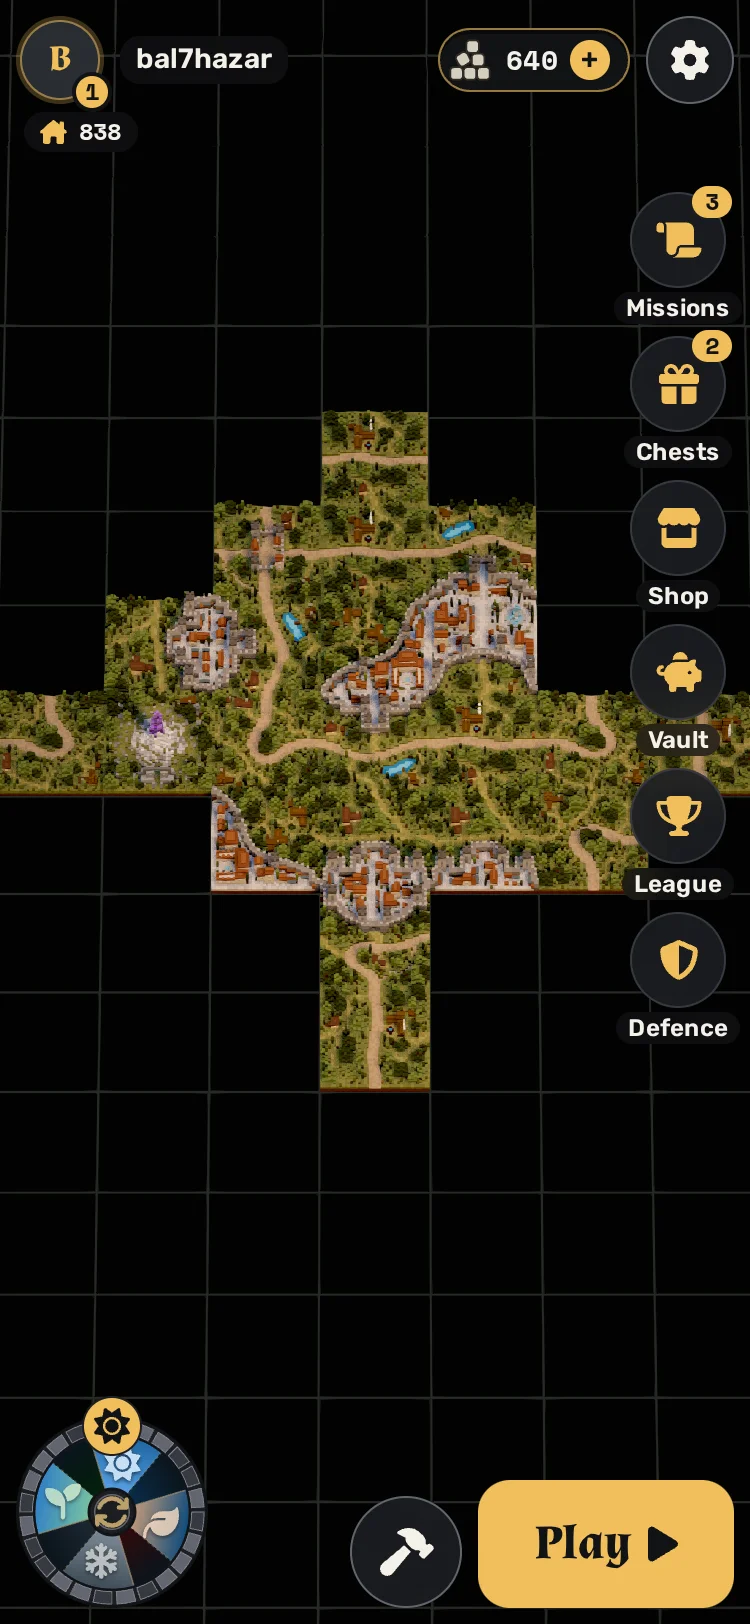
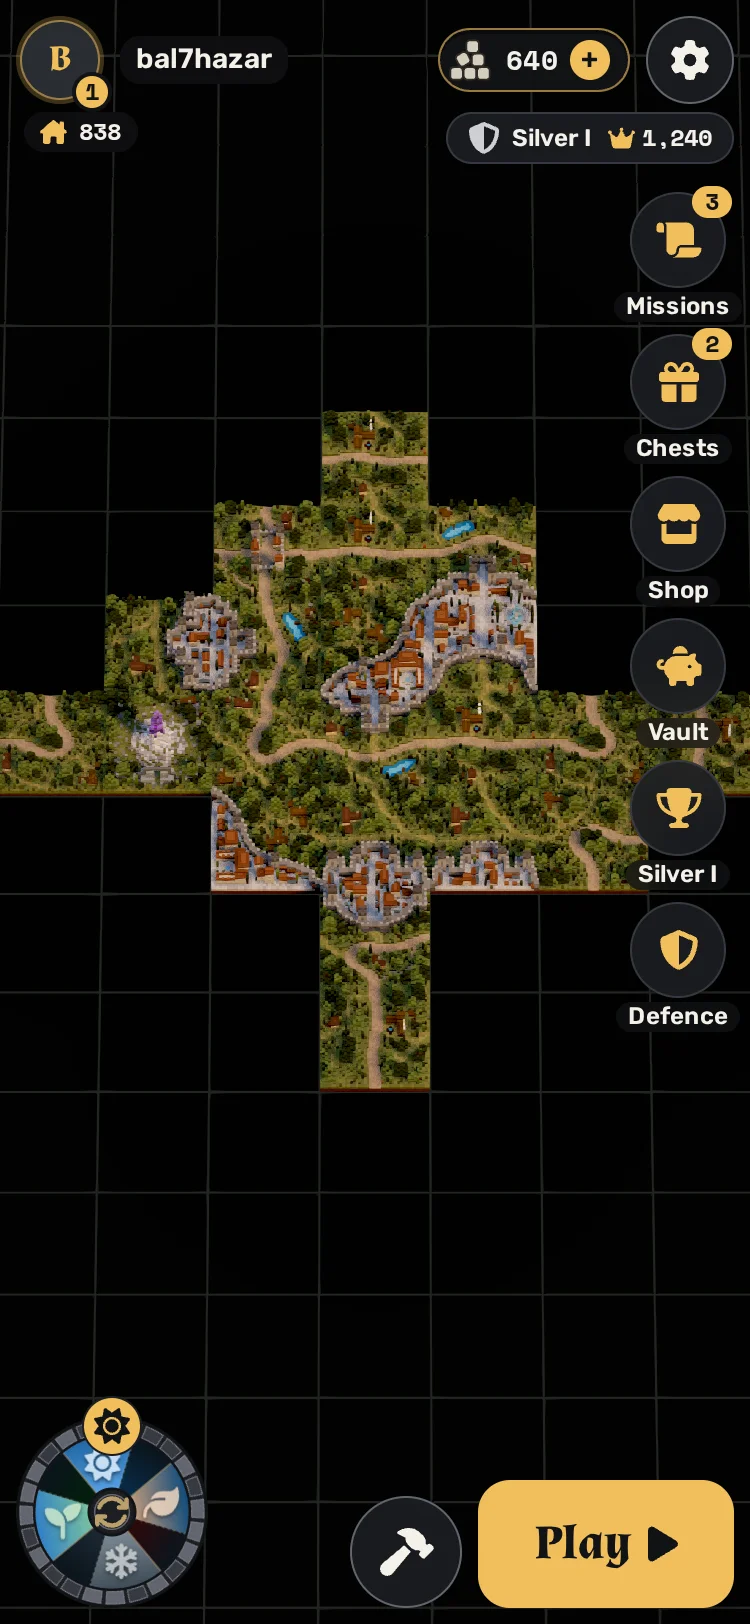
V2-HOME-VILLAGE: village as home page with overlays (#753)
Task: PVD-144 (paved/144)

diff --git a/packages/app/src/components/scenes/home-village-scene.tsx b/packages/app/src/components/scenes/home-village-scene.tsx
@@ -3,7 +3,10 @@ import type { BoardTile, GameView } from "@paved/chain";
 import { formatInteger } from "@paved/game-core";
 import type { BoardWheel } from "../../data/board-settings";
 import { cn } from "../../lib/utils";
+import { leagueOf } from "../../lib/pvp-rules";
 import { Countdown } from "../elements/countdown";
+import { Crowns } from "../elements/crowns";
+import { LeagueCrest } from "../elements/league-crest";
 import { InlineError, type ErrorDetail } from "../elements/inline-error";
 import { formatPoints } from "../elements/score";
 import { type TileArt } from "../elements/tile-chip";
@@ -57,6 +60,8 @@ export interface HomeVillageSceneProps {
   missions?: number;
   /** The viewer's Challenge game still running: the Resume chip. */
   activeGame?: GameView | null;
+  /** The player's PvP standing (`Matchmaker.league`), once PvP is played: the crowns and their league at the top right. */
+  league?: { crowns: number } | null;
   /** `Challenge.spawn_paused`: the notice. */
   spawnPaused?: boolean;
   now: number;
@@ -163,6 +168,7 @@ const SKY = <div aria-hidden className="min-h-0 flex-1 bg-gradient-to-b from-bac
 /** The view's overlays: the corners, the right column, Play and Edit, the chips. */
 function ViewOverlays({ village, editable, onEdit, ...props }: HomeVillageSceneProps & { editable: boolean; onEdit: () => void }) {
   const { activeGame, now, guest, founded = true } = props;
+  const standing = props.league ? leagueOf(props.league.crowns) : null;
   return (
     <>
       {/* Top: the avatar and its name at the left, the balances and the gear at the right; the chips below. */}
@@ -178,12 +184,26 @@ function ViewOverlays({ village, editable, onEdit, ...props }: HomeVillageSceneP
               </span>
             )}
           </div>
-          <div className="pointer-events-auto flex shrink-0 items-center gap-2">
-            <BalancesSlot layout="pill" className="desktop:hidden" />
-            <BalancesSlot layout="rail" className="hidden desktop:flex" />
-            <Button size="icon" variant="outline" onClick={props.onSettings} aria-label="Settings" className="rounded-full bg-card/90 backdrop-blur">
-              <Icon name="gear" size="md" />
-            </Button>
+          <div className="flex shrink-0 flex-col items-end gap-1">
+            <div className="pointer-events-auto flex items-center gap-2">
+              <BalancesSlot layout="pill" className="desktop:hidden" />
+              <BalancesSlot layout="rail" className="hidden desktop:flex" />
+              <Button size="icon" variant="outline" onClick={props.onSettings} aria-label="Settings" className="rounded-full bg-card/90 backdrop-blur">
+                <Icon name="gear" size="md" />
+              </Button>
+            </div>
+            {/* Once PvP is played: the crowns and the league, a tap to the league. */}
+            {standing && (
+              <button
+                type="button"
+                onClick={props.onLeague}
+                aria-label={`League: ${standing.name}, ${formatInteger(props.league!.crowns)} ${props.league!.crowns === 1 ? "crown" : "crowns"}`}
+                className="state-layer pointer-events-auto flex items-center gap-2 rounded-full border border-border bg-card/90 px-2.5 py-1 backdrop-blur outline-none focus-visible:ring-2 focus-visible:ring-ring"
+              >
+                <LeagueCrest league={standing} size="sm" />
+                <Crowns value={props.league!.crowns} size="sm" />
+              </button>
+            )}
           </div>
         </div>
         {/* The chips under the avatar, clear of the right column. */}
@@ -224,7 +244,7 @@ function ViewOverlays({ village, editable, onEdit, ...props }: HomeVillageSceneP
         <OverlayButton icon="gift" label="Chests" badge={props.chests} onClick={props.onChests} />
         <OverlayButton icon="store" label="Shop" onClick={props.onShop} />
         <OverlayButton icon="piggy-bank" label="Vault" onClick={props.onVault} />
-        <OverlayButton icon="trophy" label="League" onClick={props.onLeague} />
+        <OverlayButton icon="trophy" label="League" detail={standing?.name} onClick={props.onLeague} />
         <OverlayButton icon="shield-halved" label="Defence" onClick={props.onDefence} />
       </nav>
 

diff --git a/packages/app/__tests__/home-route.test.tsx b/packages/app/__tests__/home-route.test.tsx
@@ -1,0 +1,89 @@
+import { slow } from "../test-slow";
+import { render, screen, waitFor } from "@testing-library/react";
+import { afterEach, beforeAll, beforeEach, describe, expect, it, vi } from "vitest";
+import { App } from "../src/App";
+import type { GameSigner } from "../src/data";
+import { MOCK_KEY } from "../src/data/mock/ledger";
+import { SETTINGS_KEY } from "../src/data/settings";
+import { leagueOf } from "../src/lib/pvp-rules";
+import { queryClient } from "../src/lib/query-client";
+import { createTestRouter } from "../src/routes/router";
+import { markWelcomed, resetWelcomedForTests } from "../src/routes/welcomed";
+import { mockImplementation } from "./mock-fakes";
+import { fakeWallet } from "./wallet-fakes";
+
+// The home (#753) on the mock ledger: the crowns and the league once PvP is played, and the scene's view by the graphics
+// quality. jsdom has no WebGL: here it reports some, and the 3D canvas is a stand-in that says it is up.
+
+vi.mock("../src/lib/webgl", () => ({ hasWebGL: () => true }));
+vi.mock("../src/routes/home-canvas", () => ({ default: () => <div data-testid="home-canvas" /> }));
+
+const WAIT = { timeout: slow(8000) };
+
+/** The mock's sources, the wallet restored, the village founded; `crowns` (and a season attack) when PvP was played. */
+async function open(options: { crowns?: number } = {}) {
+  const s = mockImplementation();
+  const me = s.sources.signer!.address;
+  await s.ledger.writesFor(me).foundFreeVillage();
+  if (options.crowns !== undefined) {
+    // The player's stored PvP, edited in place: crowns won this season (a test's stand-in for attacks played elsewhere).
+    await s.ledger.pvpLeague(me);
+    const state = JSON.parse(s.store.getItem(MOCK_KEY)!);
+    const season = (await s.ledger.pvpLeague(me)).season;
+    for (const player of Object.values(state.players as Record<string, { pvp?: Record<string, unknown> }>)) {
+      player.pvp = { crowns: options.crowns, draws: 0, match: null, attacks: [], shieldUntil: 0, season, seasonAttacks: 1, peak: 0 };
+    }
+    s.store.setItem(MOCK_KEY, JSON.stringify(state));
+  }
+  const wallet = fakeWallet({ address: me, restored: true });
+  wallet.connector.signer = () => s.sources.signer as GameSigner;
+  const router = createTestRouter("/");
+  render(<App router={router} sources={s.sources} connector={wallet.load} />);
+  return { ...s, me, router };
+}
+
+beforeAll(async () => {
+  await Promise.all([import("../src/routes/pages/home"), import("../src/routes/home-stage")]);
+}, slow(60_000));
+beforeEach(() => {
+  queryClient.clear();
+  localStorage.clear();
+  resetWelcomedForTests();
+  markWelcomed();
+});
+afterEach(() => {
+  queryClient.clear();
+  localStorage.clear();
+  resetWelcomedForTests();
+});
+
+describe("/: the PvP standing at the top right", () => {
+  it("shows the crowns and their league once PvP is played, and the column's League names it", async () => {
+    await open({ crowns: 1_240 });
+    const name = leagueOf(1_240).name;
+    expect(await screen.findByRole("button", { name: `League: ${name}, 1,240 crowns` }, WAIT)).toBeInTheDocument();
+    expect(screen.getByRole("button", { name: `League, ${name}` })).toBeInTheDocument();
+  }, slow(30_000));
+
+  it("shows none before any PvP", async () => {
+    await open();
+    await screen.findByRole("button", { name: "Edit village" }, WAIT);
+    expect(screen.queryByRole("button", { name: /^League: / })).toBeNull();
+    expect(screen.getByRole("button", { name: "League" })).toBeInTheDocument();
+  }, slow(30_000));
+});
+
+describe("/: the scene by the graphics quality", () => {
+  it("draws the 3D scene with WebGL at the default quality", async () => {
+    await open();
+    expect(await screen.findByTestId("home-canvas", {}, WAIT)).toBeInTheDocument();
+    expect(screen.queryByRole("img", { name: /^Village layout/ })).toBeNull();
+  }, slow(30_000));
+
+  it("falls back to the plan view under the low quality, with no canvas", async () => {
+    localStorage.setItem(SETTINGS_KEY, JSON.stringify({ quality: "low" }));
+    await open();
+    expect(await screen.findByRole("img", { name: /^Village layout/ }, WAIT)).toBeInTheDocument();
+    await waitFor(() => expect(screen.queryByTestId("home-canvas")).toBeNull());
+  }, slow(30_000));
+});

diff --git a/packages/app/__tests__/scenes.test.tsx b/packages/app/__tests__/scenes.test.tsx
@@ -31,6 +31,7 @@ import { BOARD_38, CLOSINGS_38 } from "../src/mocks/board";
 import { DAY, MOCK_NOW } from "../src/mocks/clock";
 import { BOARD, LOADING, OVER, PLAY, PURCHASE, WELCOME } from "../src/mocks/scenes";
 import { HOME_VILLAGE } from "../src/mocks/village-v2";
+import { leagueOf } from "../src/lib/pvp-rules";
 
 /** The app's providers in miniature: `m` components and the nav's `layoutId` need a LazyMotion with `domMax`. */
 const wrap = (ui: ReactNode) => <LazyMotion features={domMax}>{ui}</LazyMotion>;
@@ -102,13 +103,13 @@ describe("Home (#753): the village with its overlays", () => {
     expect(await screen.findByRole("img", { name: /^Village layout of \d+ tiles/ })).toBeInTheDocument();
     expect(screen.queryByRole("navigation", { name: "Main" })).not.toBeInTheDocument();
     const column = screen.getByRole("navigation", { name: "Village" });
-    expect(within(column).getAllByRole("button").map((b) => b.getAttribute("aria-label"))).toEqual(["Missions, 3 waiting", "Chests, 2 waiting", "Shop", "Vault", "League", "Defence"]);
+    expect(within(column).getAllByRole("button").map((b) => b.getAttribute("aria-label"))).toEqual(["Missions, 3 waiting", "Chests, 2 waiting", "Shop", "Vault", `League, ${leagueOf(1_240).name}`, "Defence"]);
     for (const [name, handler] of [
       ["Missions, 3 waiting", on.onMissions],
       ["Chests, 2 waiting", on.onChests],
       ["Shop", on.onShop],
       ["Vault", on.onVault],
-      ["League", on.onLeague],
+      [/^League, /, on.onLeague],
       ["Defence", on.onDefence],
       ["Settings", on.onSettings],
       [/^Play/, on.onPlay],
@@ -117,6 +118,22 @@ describe("Home (#753): the village with its overlays", () => {
       expect(handler).toHaveBeenCalledTimes(1);
     }
     expect(screen.getByRole("button", { name: "Edit village" })).toBeInTheDocument();
+  });
+
+  it("shows the crowns and the league at the top right once PvP is played; a tap opens the league", async () => {
+    const onLeague = vi.fn();
+    const { unmount } = render(wrap(<HomeVillageScene {...HOME_VILLAGE.view} onLeague={onLeague} />));
+    const name = leagueOf(1_240).name;
+    const standing = screen.getByRole("button", { name: `League: ${name}, 1,240 crowns` });
+    expect(within(standing).getByText(name)).toBeInTheDocument();
+    expect(within(standing).getByRole("img", { name: "1,240 crowns" })).toBeInTheDocument();
+    await userEvent.click(standing);
+    expect(onLeague).toHaveBeenCalledTimes(1);
+    unmount();
+    // Before any PvP: no standing, the column's League is plain.
+    render(wrap(<HomeVillageScene {...HOME_VILLAGE.start} />));
+    expect(screen.queryByRole("button", { name: /^League: / })).toBeNull();
+    expect(screen.getByRole("button", { name: "League" })).toBeInTheDocument();
   });
 
   it("carries today's home content as chips: Resume and the spawn pause", async () => {

diff --git a/packages/app/src/routes/home-stage.tsx b/packages/app/src/routes/home-stage.tsx
@@ -5,6 +5,7 @@ import VillageStage, { type VillageStageProps } from "../components/containers/v
 import { useBoardSkins } from "../data/board-skins";
 import type { FreeVillageHeld } from "../data/free-village-base";
 import { RENDERER_ASSETS } from "../data/renderer-manifest";
+import { useDeviceSettings } from "../data/settings";
 import { hasWebGL } from "../lib/webgl";
 import { countsByPlan, useVillageArt } from "./village-v2";
 
@@ -23,13 +24,18 @@ export interface HomeStageProps extends VillageStageProps {
 
 /**
  * The home's village stage as the app wires it (#753), its own chunk: the stage (the editor, the board, the engine) with the
- * tile art in the owner's skins and the 3D scene under it, the plan view where WebGL is missing or the renderer cannot start.
+ * tile art in the owner's skins and the 3D scene under it; the plan view under the low graphics quality, where WebGL is missing
+ * or where the renderer cannot start.
  */
 export default function HomeStage({ playerId, held, settings, onScene, ...stage }: HomeStageProps) {
   const inventory = useMemo(() => (held ? countsByPlan(freeInventory(held.inventory, held.tiles)) : stage.inventory), [held, stage.inventory]);
   const tileArt = useVillageArt(playerId);
   const skins = useBoardSkins(playerId);
-  const [view, setView] = useState<"3d" | "plan">(() => (hasWebGL() ? "3d" : "plan"));
+  // The plan view under reduced quality (the Graphics quality setting at "low", followed as it changes), where WebGL is
+  // missing, or once the renderer failed.
+  const [{ quality }] = useDeviceSettings();
+  const [failed, setFailed] = useState(() => !hasWebGL());
+  const view = failed || quality === "low" ? "plan" : "3d";
   return (
     <VillageStage
       {...stage}
@@ -39,7 +45,7 @@ export default function HomeStage({ playerId, held, settings, onScene, ...stage 
         view === "3d"
           ? (v) => (
               <Suspense fallback={null}>
-                <HomeCanvas view={v} basePath={RENDERER_ASSETS} skins={skins} settings={settings} onScene={onScene} onError={() => setView("plan")} />
+                <HomeCanvas view={v} basePath={RENDERER_ASSETS} skins={skins} settings={settings} onScene={onScene} onError={() => setFailed(true)} />
               </Suspense>
             )
           : undefined

diff --git a/packages/app/src/routes/pages/home.tsx b/packages/app/src/routes/pages/home.tsx
@@ -12,6 +12,7 @@ import { useActiveGame, useSpawnPaused } from "../../data/chain";
 import { cobbleKeys } from "../../data/cobbles";
 import { useChests, useFreeVillageHeld, useFreeVillageWrites } from "../../data/free-village-base";
 import { queryKeys } from "../../data/keys";
+import { playedPvp, usePvpLeague } from "../../data/pvp-league";
 import { useMissionsReady } from "../../data/quests";
 import { useDataSources } from "../../data/sources";
 import { useAccount } from "../../wallet/wallet";
@@ -32,7 +33,8 @@ const EDIT = "edit";
 
 /**
  * `/` (#753, PvP v2 step 1): the player's own village full screen, the home of the game. The village, its inventory and the
- * level from `useFreeVillage` (the mock ledger in step 1, #741), the chests waiting, today's missions to claim, the active
+ * level from `useFreeVillage` (the mock ledger in step 1, #741), the chests waiting, today's missions to claim, the crowns and
+ * league once PvP is played (`Matchmaker.league`), the active
  * Challenge game and the spawn pause. The overlays paint first; the stage (`home-stage.tsx`: the editor, the engine, the tile art)
  * and then the 3D scene (`home-canvas.tsx`) load lazily under them, the plan view where WebGL is
  * missing or the renderer cannot start. Edit mode is in the URL (`?edit`, an entry of its own), so Back leaves it first; leaving
@@ -57,6 +59,7 @@ export default function Page() {
   const active = useActiveGame(wallet.address);
   const paused = useSpawnPaused();
   const missions = useMissionsReady(me);
+  const league = usePvpLeague(me).data;
   const board = useBoardSettings();
   const [saved, setSaved] = useState<LayoutSaved | null>(null);
   const [dirty, setDirty] = useState(false);
@@ -144,6 +147,7 @@ export default function Page() {
         refusalDetail={writes.error ? errorDetail(writes.error) : undefined}
         chests={(chests.data?.pending.length ?? 0) + (chests.data?.open ? 1 : 0)}
         missions={missions}
+        league={league && playedPvp(league) ? { crowns: league.crowns } : null}
         activeGame={wallet.address ? (active.data ?? null) : null}
         spawnPaused={paused.data ?? false}
         now={now}

diff --git a/packages/app/src/components/containers/home-overlays.tsx b/packages/app/src/components/containers/home-overlays.tsx
@@ -6,6 +6,8 @@ export interface OverlayButtonProps {
   /** The Font Awesome name, without `fa-`. */
   icon: string;
   label: string;
+  /** Shown under the icon in the name's place (the player's league on League): the accessible name keeps both. */
+  detail?: string;
   /** A count on the button (chests waiting, missions to claim); none or 0: no badge. */
   badge?: number;
   onClick?: () => void;
@@ -17,13 +19,14 @@ export interface OverlayButtonProps {
  * badge at its top right. 56 px across, past the 44 px touch floor; the name keeps the text over the scene readable on its own
  * plate. Its accessible name says the count.
  */
-export function OverlayButton({ icon, label, badge = 0, onClick, className }: OverlayButtonProps) {
+export function OverlayButton({ icon, label, detail, badge = 0, onClick, className }: OverlayButtonProps) {
+  const name = detail ? `${label}, ${detail}` : label;
   return (
     <m.button
       type="button"
       onClick={onClick}
       whileTap={{ scale: 0.92 }}
-      aria-label={badge > 0 ? `${label}, ${badge} waiting` : label}
+      aria-label={badge > 0 ? `${name}, ${badge} waiting` : name}
       className={cn("group flex w-16 flex-col items-center gap-0.5 rounded-xl outline-none focus-visible:ring-2 focus-visible:ring-ring", className)}
     >
       <span className="state-layer relative grid size-12 place-items-center rounded-full border border-border bg-card/90 text-primary shadow-lg backdrop-blur tablet:size-14">
@@ -34,8 +37,8 @@ export function OverlayButton({ icon, label, badge = 0, onClick, className }: Ov
           </span>
         )}
       </span>
-      <span aria-hidden className="rounded-md bg-background/70 px-1.5 text-xs font-semibold text-foreground backdrop-blur">
-        {label}
+      <span aria-hidden className="rounded-md bg-background/70 px-1.5 text-center text-xs leading-tight font-semibold text-foreground backdrop-blur">
+        {detail ?? label}
       </span>
     </m.button>
   );

diff --git a/packages/app/src/data/pvp-league.ts b/packages/app/src/data/pvp-league.ts
@@ -1,0 +1,24 @@
+import { useQuery } from "@tanstack/react-query";
+import type { LeagueStatus } from "@paved/chain";
+import { orNone } from "./avatar";
+import { pvpKeys } from "./pvp-keys";
+import { useDataSources } from "./sources";
+
+// The player's PvP standing on its own (#753): the home shows the crowns and the league without the PvP's engine (`pvp.ts`).
+
+/**
+ * The player's crowns and league (`Matchmaker.league`), the same read and cache as the PvP screens'. Null on a network without
+ * PvP; disabled without a player.
+ */
+export function usePvpLeague(playerId: string | null): { data: LeagueStatus | null | undefined; error: Error | null } {
+  const { views } = useDataSources();
+  const v = views as Partial<{ pvpLeague: (village: string) => Promise<LeagueStatus> }>;
+  const served = typeof v.pvpLeague === "function";
+  const id = playerId ?? "0x0";
+  const league = useQuery({ queryKey: pvpKeys.league(id), queryFn: () => orNone(() => v.pvpLeague!(id)), enabled: playerId !== null && served });
+  if (playerId === null || !served) return { data: null, error: null };
+  return { data: league.data, error: league.error };
+}
+
+/** PvP was played: crowns held, a league reached this season, or an attack made. */
+export const playedPvp = (league: LeagueStatus): boolean => league.crowns > 0 || league.peak > 0 || league.attacks > 0;

diff --git a/packages/app/src/mocks/village-v2.ts b/packages/app/src/mocks/village-v2.ts
@@ -155,8 +155,8 @@ export const VILLAGE_SHOP = {
   guest: { status: { kind: "guest" } },
 } satisfies Record<string, Data<VillageShopSceneProps>>;
 
-/** The home's base (#753): the growing village, its inventory, 2 chests and 3 missions waiting, at the mocks' clock. */
-const home = { village: LAYOUT_GROWING, inventory: INVENTORY, chests: 2, missions: 3, now: MOCK_NOW } as const;
+/** The home's base (#753): the growing village, its inventory, 2 chests and 3 missions waiting, 1,240 crowns, at the mocks' clock. */
+const home = { village: LAYOUT_GROWING, inventory: INVENTORY, chests: 2, missions: 3, league: { crowns: 1_240 }, now: MOCK_NOW } as const;
 
 /** One fixture per state of the home (`Scenes/Home`): the village in view, its chips, and edit mode. */
 export const HOME_VILLAGE = {
